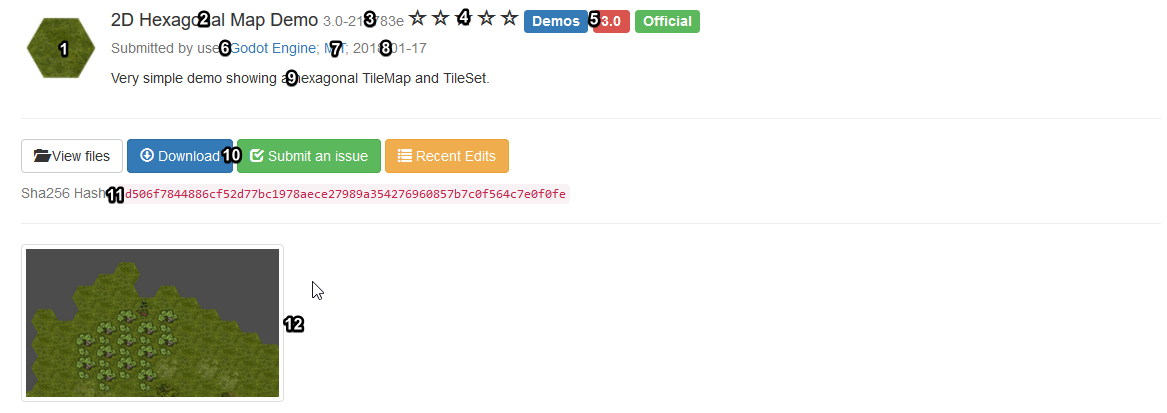
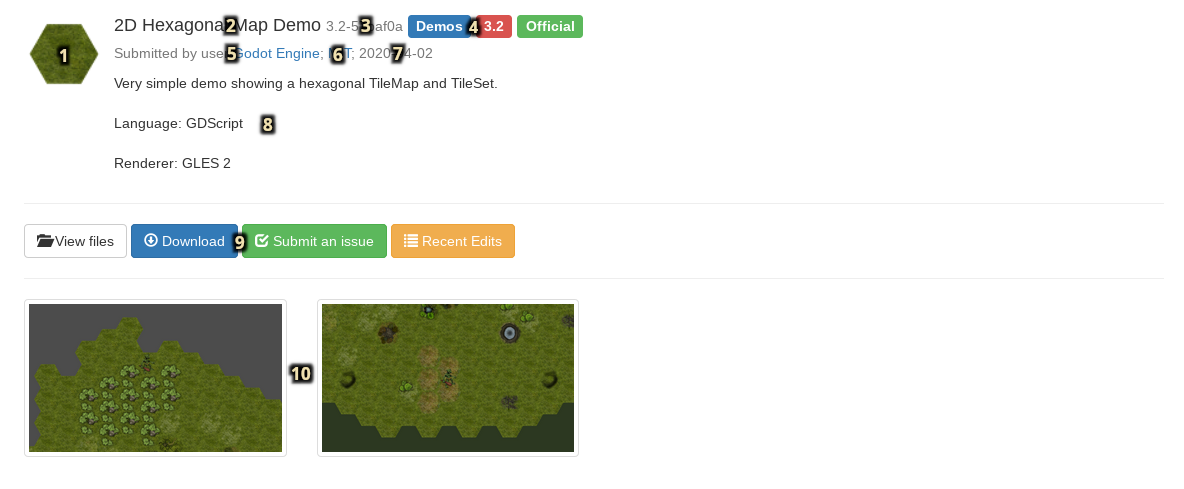
Remove obsolete information related to the asset library
Removes mentions of SHA hashsums, download tags, and ratings.

diff --git a/tutorials/assetlib/uploading_to_assetlib.rst b/tutorials/assetlib/uploading_to_assetlib.rst
@@ -36,11 +36,6 @@ are a few requirements your asset needs to meet to be approved.
 * The license needs to be correct. The license listed on the asset
   library must match the license in the repository.
 
-* Do not set the download commit to "master". The asset library validates
-  all assets with a SHA256 hash, so the version hosted on GitHub needs
-  to be *exactly* the same. Instead of "master", either specify a commit
-  hash, or tag versions and specify a version number.
-
 * Use proper English for the name and description of your asset.
   This includes using correct capitalization, and using full
   sentences in the description.
@@ -121,9 +116,9 @@ is required in the submission form here as well.
     from repository host to repository host, but will likely look similar to
     `https://github.com/<user>/<project>/issues`. You may leave this field empty
     if you use your provider's issue tracker, and it's part of the same repository.
-* **Download Commit/Tag**:
-    The commit or tag of the asset. For example,
-    `b1d3172f89b86e52465a74f63a74ac84c491d3e1` or `v1.0`. The site computes
+* **Download Commit**:
+    The commit of the asset. For example,
+    `b1d3172f89b86e52465a74f63a74ac84c491d3e1`. The site computes
     the actual download URL from this.
 * **Icon URL**:
     The URL to your asset's icon (which will be used as a thumbnail

diff --git a/tutorials/assetlib/using_assetlib.rst b/tutorials/assetlib/using_assetlib.rst
@@ -60,15 +60,13 @@ Now let's take a look at what an asset's page looks like and what it contains.
 1. Asset's thumbnail/icon.
 2. Asset's name.
 3. Current version number of the asset.
-4. Asset's average rating, displayed in stars. (This is currently unimplemented.)
-5. Asset's category, Godot version, and support status.
-6. Asset's original author/submitter.
-7. The license the asset is distributed under.
-8. The date of the asset's latest edit/update.
-9. A textual description of the asset.
-10. Links related to the asset (download link, file list, issue tracker).
-11. A SHA-256 hash of the asset, for download validation purposes.
-12. Images and videos showcasing the asset.
+4. Asset's category, Godot version, and support status.
+5. Asset's original author/submitter.
+6. The license the asset is distributed under.
+7. The date of the asset's latest edit/update.
+8. A textual description of the asset.
+9. Links related to the asset (download link, file list, issue tracker).
+10. Images and videos showcasing the asset.
 
 Registering and logging in
 ~~~~~~~~~~~~~~~~~~~~~~~~~~
